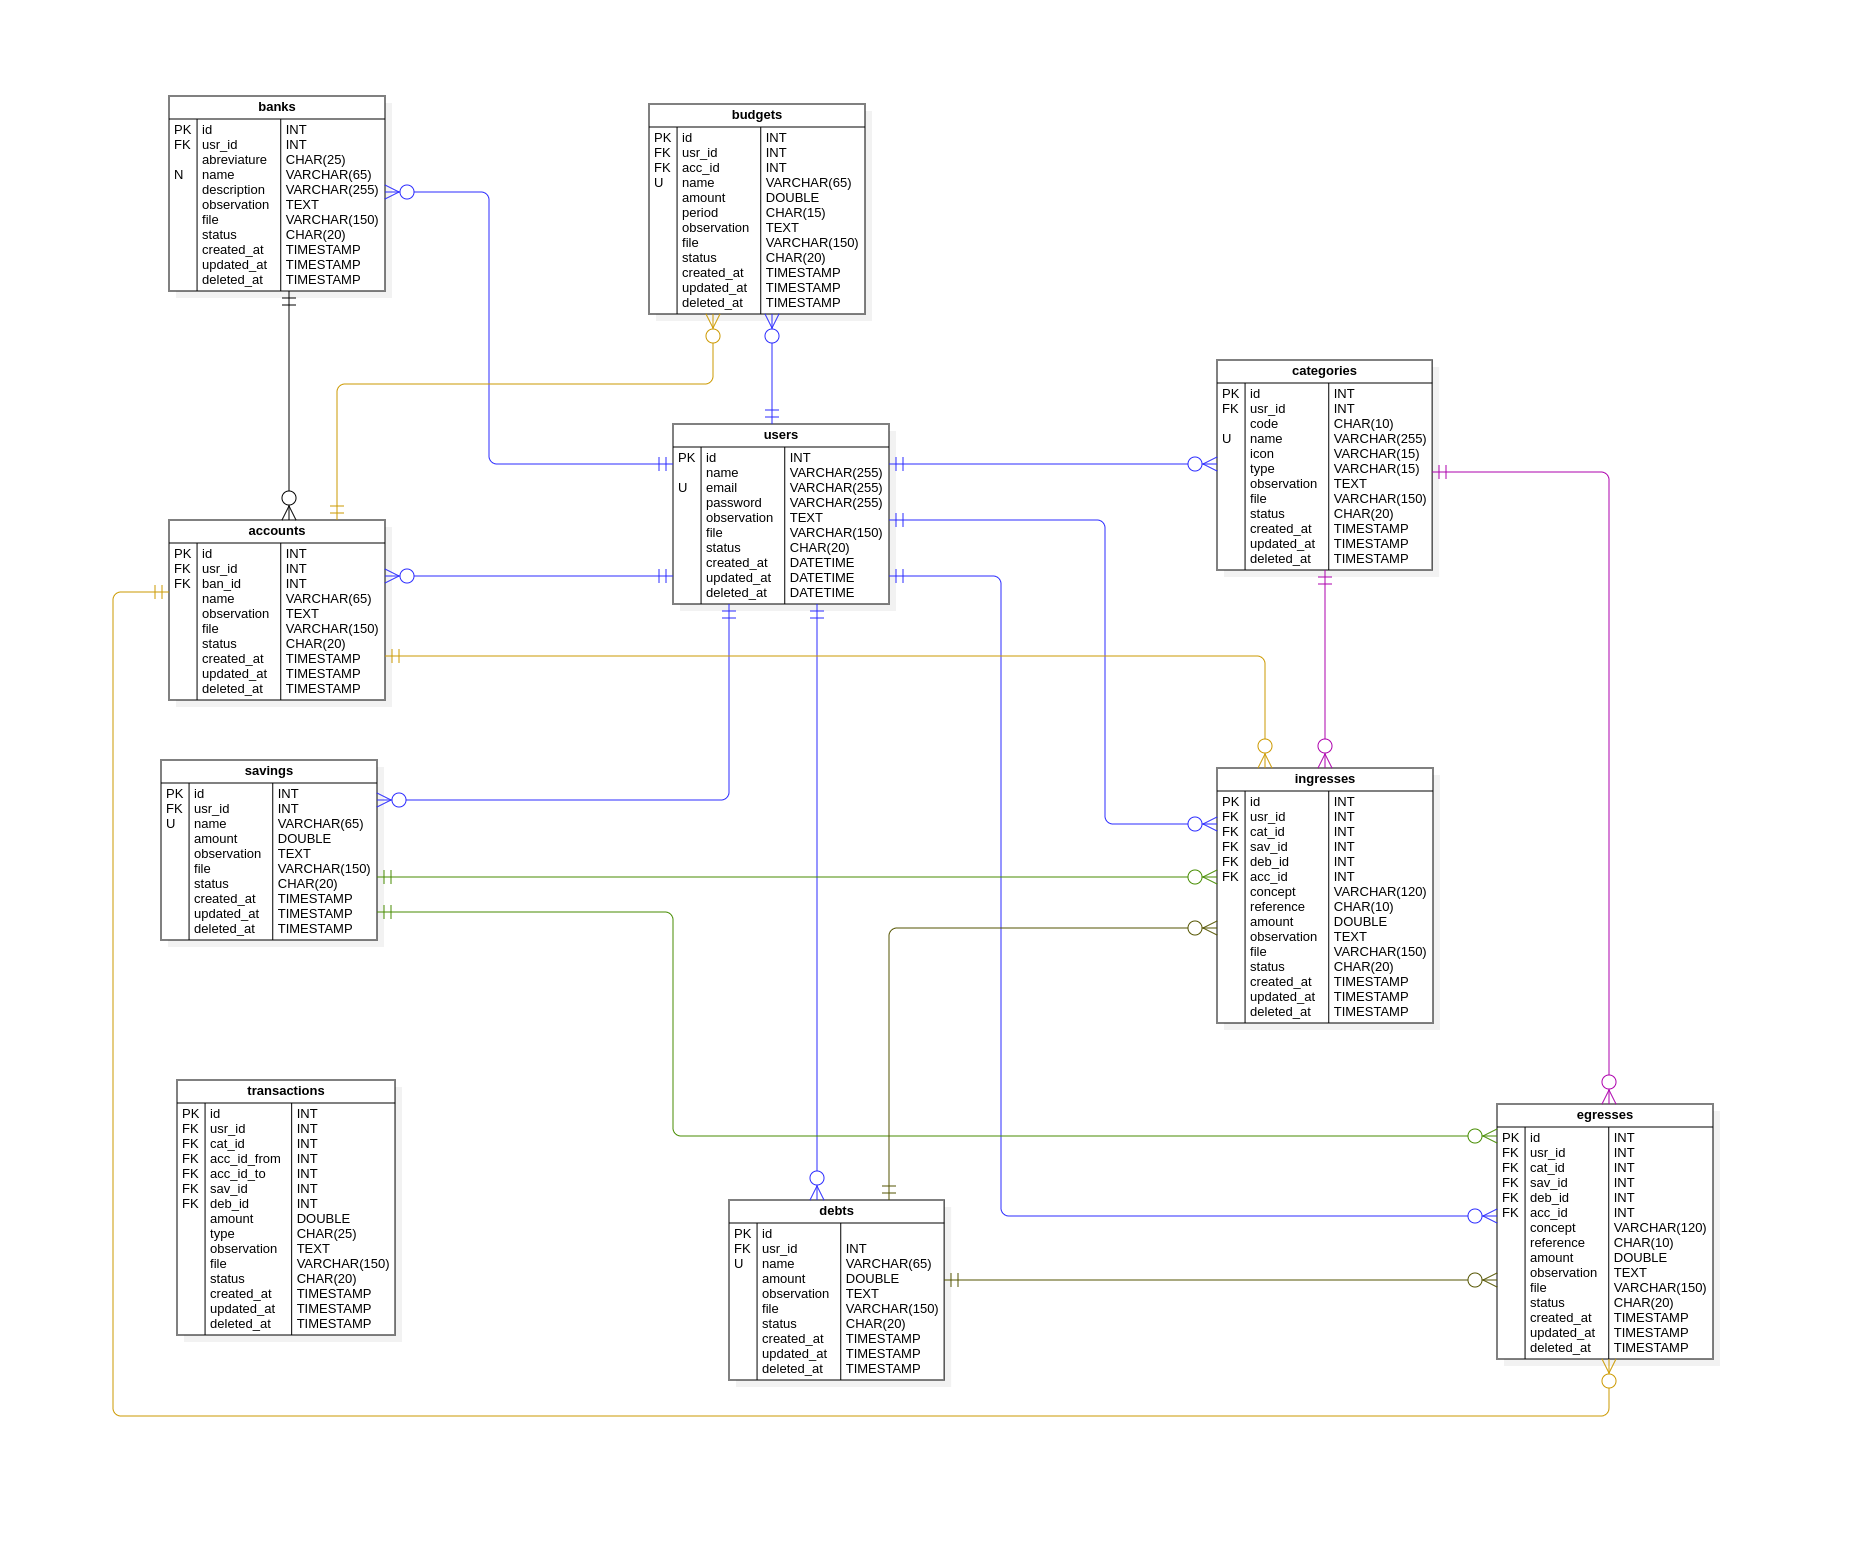
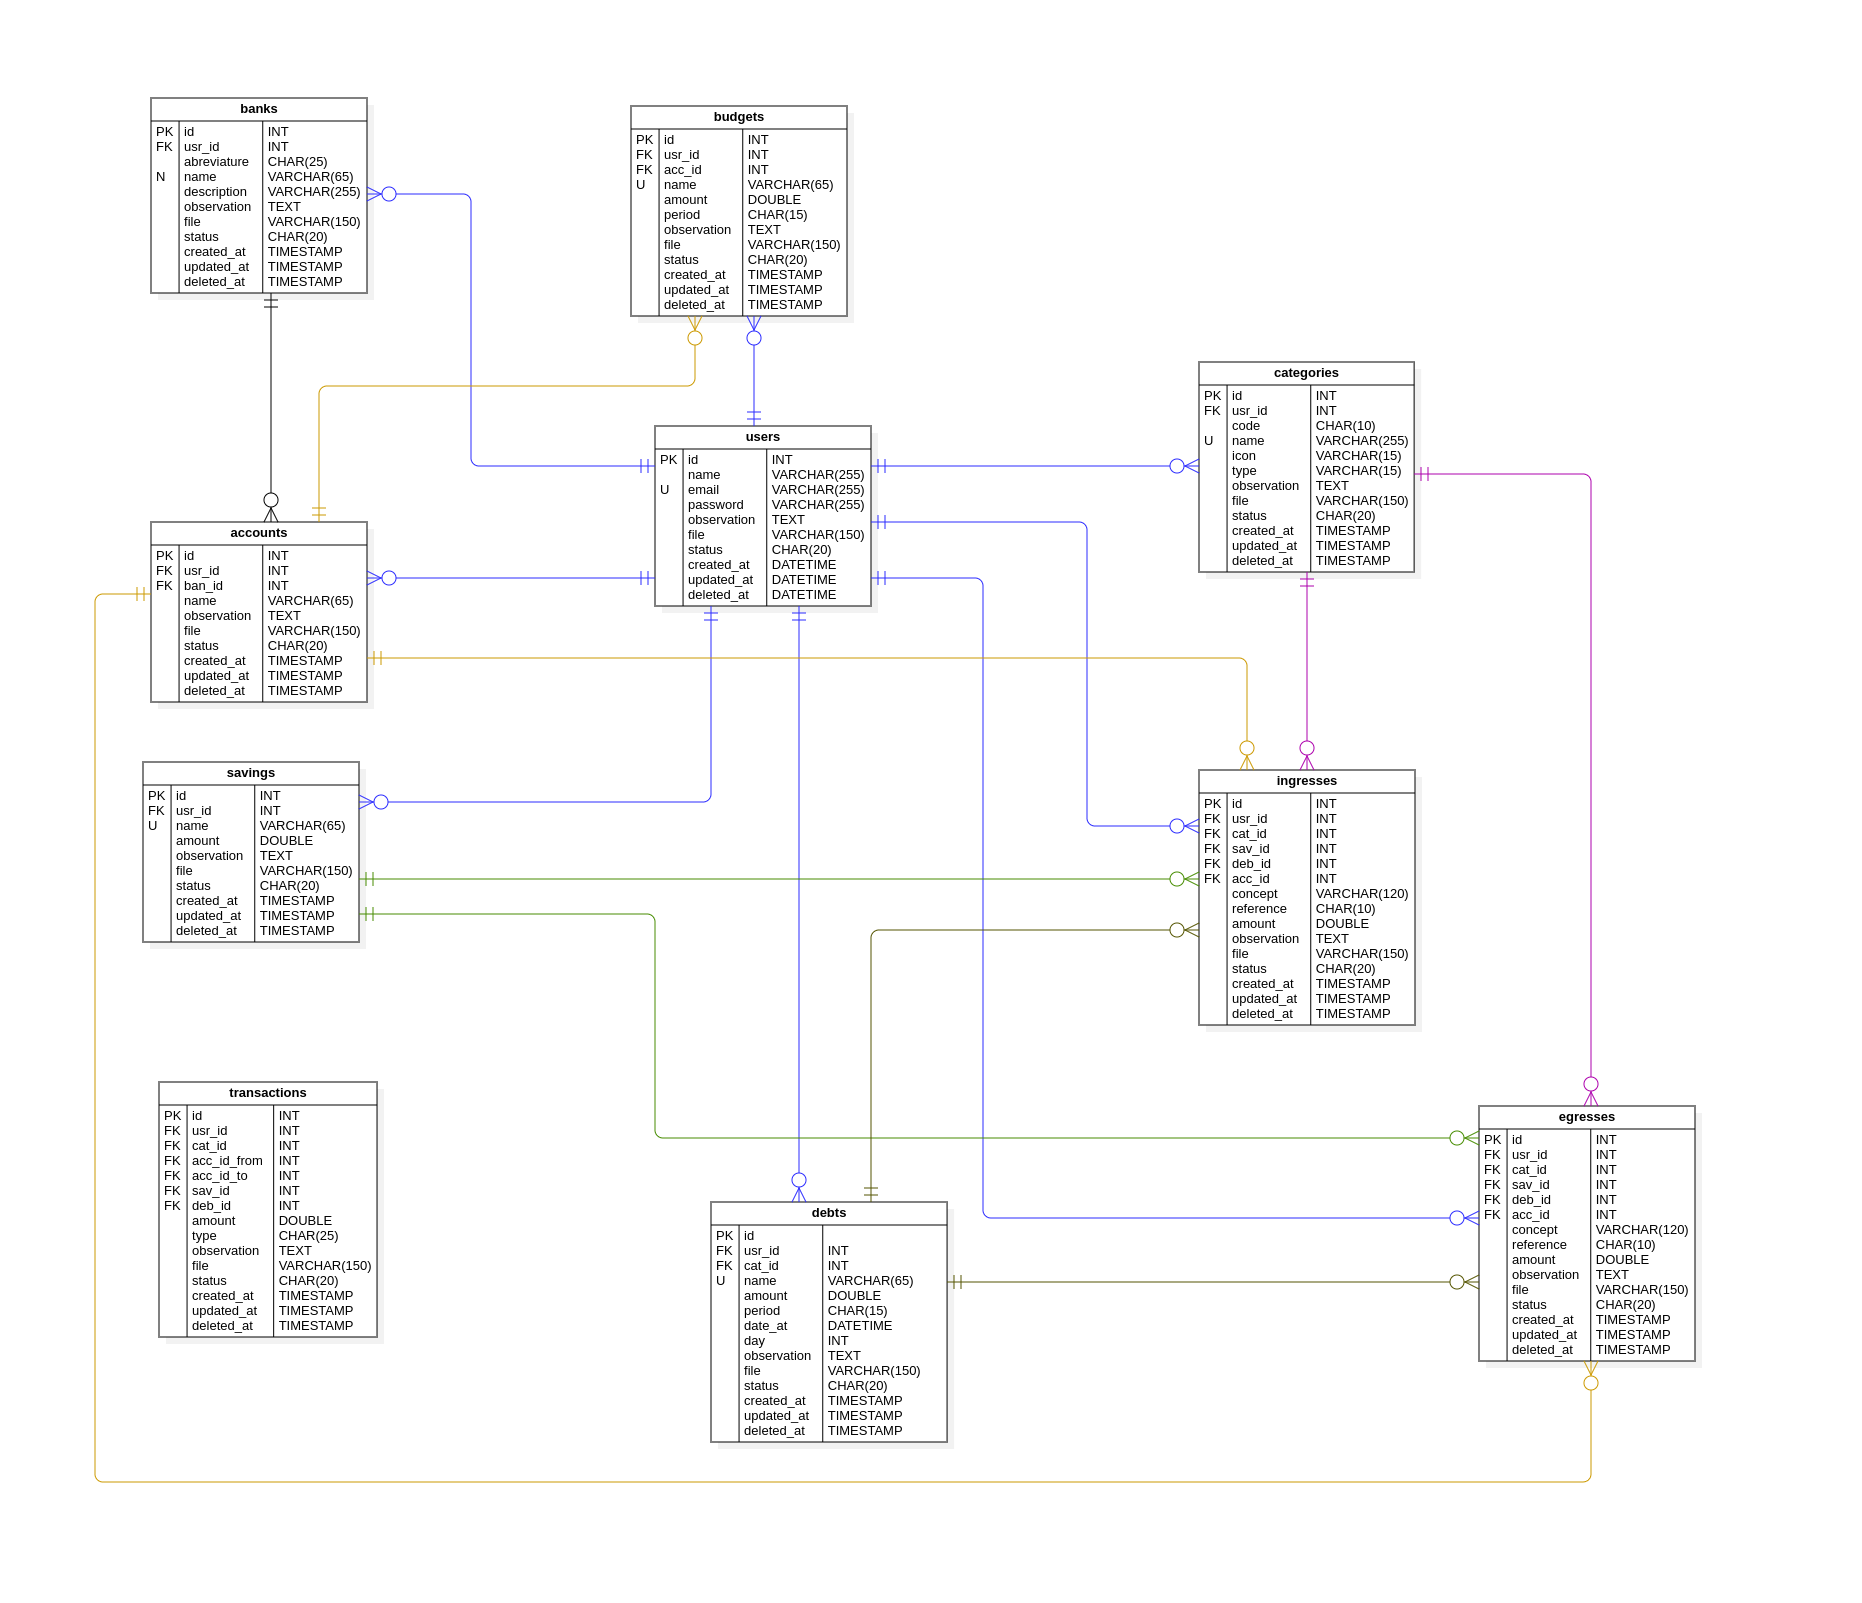
Removed attribute in debt table

diff --git a/README.md b/README.md
@@ -71,8 +71,12 @@ CREATE TABLE IF NOT EXISTS debts
 (
     id            INT         NOT NULL AUTO_INCREMENT  COMMENT "Identificador único para la administración de mis deudas.",
     usr_id        INT             NULL DEFAULT 1       COMMENT "Identificador del usuario.",
+    cat_id        INT             NULL DEFAULT 1       COMMENT "Identificador de categoria.",
     name          VARCHAR(65)     NULL DEFAULT NULL    COMMENT "Nombre de la deuda.",
     amount        DOUBLE          NULL DEFAULT 0       COMMENT "Importe total de la deuda.",
+    period        CHAR(15)        NULL DEFAULT NULL    COMMENT "Tipo de presupuesto: [diario|quincenal|mensual|anual].",
+    day           INT             NULL DEFAULT NULL    COMMENT "Dia de pago de deuda para tipo de perido Mensual",
+    date_at       DATETIME        NULL DEFAULT NULL    COMMENT "Fecha de pago de deuda para tipo de perido Anual",
     observation   TEXT            NULL DEFAULT NULL    COMMENT "Opcional, observaciones de la deuda.",
     file          VARCHAR(150)    NULL DEFAULT NULL    COMMENT "Opcional, nombre del archivo.",
     status        CHAR(20)        NULL DEFAULT NULL    COMMENT "Estatus actual de la deuda: [En curso | Completada | Cancelado ].",
@@ -151,7 +155,6 @@ CREATE TABLE IF NOT EXISTS ingresses
     deb_id       INT               NULL DEFAULT 1      COMMENT "Identificador de la deuda.",
     acc_id       INT               NULL DEFAULT 1      COMMENT "Identificador de la cuenta.",
     concept      VARCHAR(255)      NULL DEFAULT NULL   COMMENT "Opcional, nombre del concepto.",
-    description  VARCHAR(255)      NULL DEFAULT NULL   COMMENT "Opcional, descripción del ingreso.",
     reference    VARCHAR(255)      NULL DEFAULT NULL   COMMENT "Opcional, referencia del ingreso.",
     amount       DOUBLE            NULL DEFAULT 0      COMMENT "Importe total del ingreso.",
     observation  TEXT              NULL DEFAULT NULL   COMMENT "Opcional, observaciones de la operación.",
@@ -176,7 +179,6 @@ CREATE TABLE IF NOT EXISTS egresses
     deb_id       INT               NULL DEFAULT 1      COMMENT "Identificador de la deuda.",
     acc_id       INT               NULL DEFAULT 1      COMMENT "Identificador de la cuenta.",
     concept      VARCHAR(255)      NULL DEFAULT NULL   COMMENT "Opcional, nombre del concepto.",
-    description  VARCHAR(255)      NULL DEFAULT NULL   COMMENT "Opcional, descripción del egreso.",
     reference    VARCHAR(255)      NULL DEFAULT NULL   COMMENT "Opcional, referencia del egreso.",
     amount       DOUBLE            NULL DEFAULT 0      COMMENT "Importe total del egreso.",
     observation  TEXT              NULL DEFAULT NULL   COMMENT "Opcional, observaciones de la operación.",
